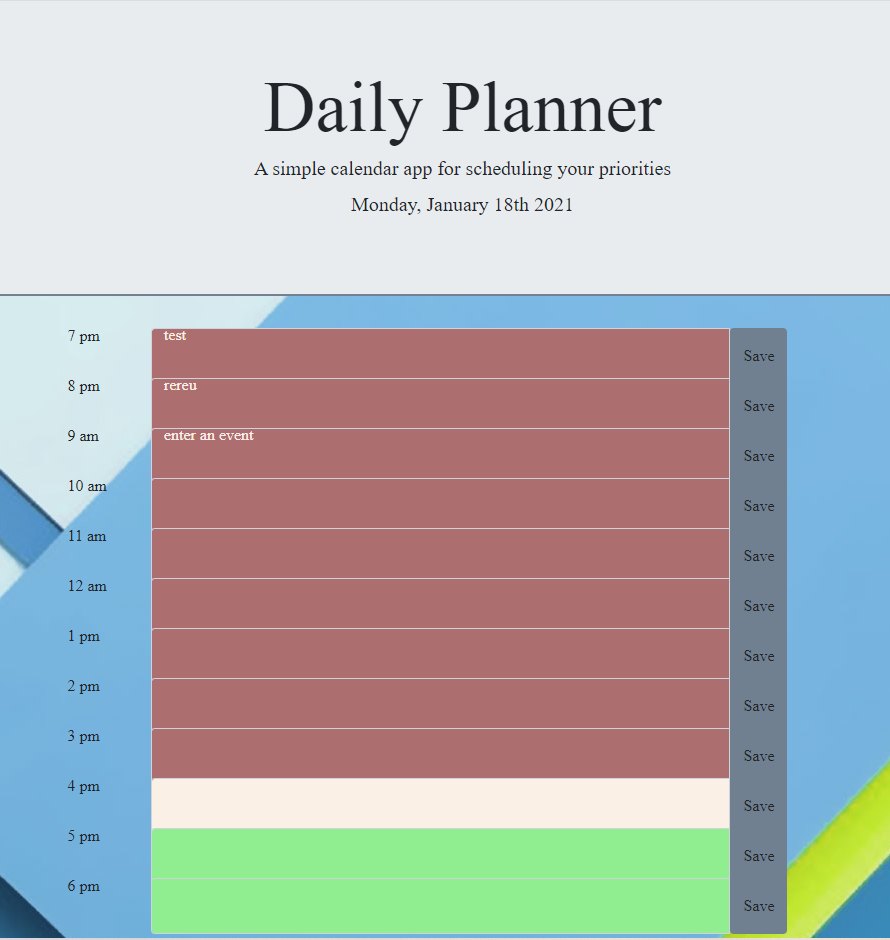
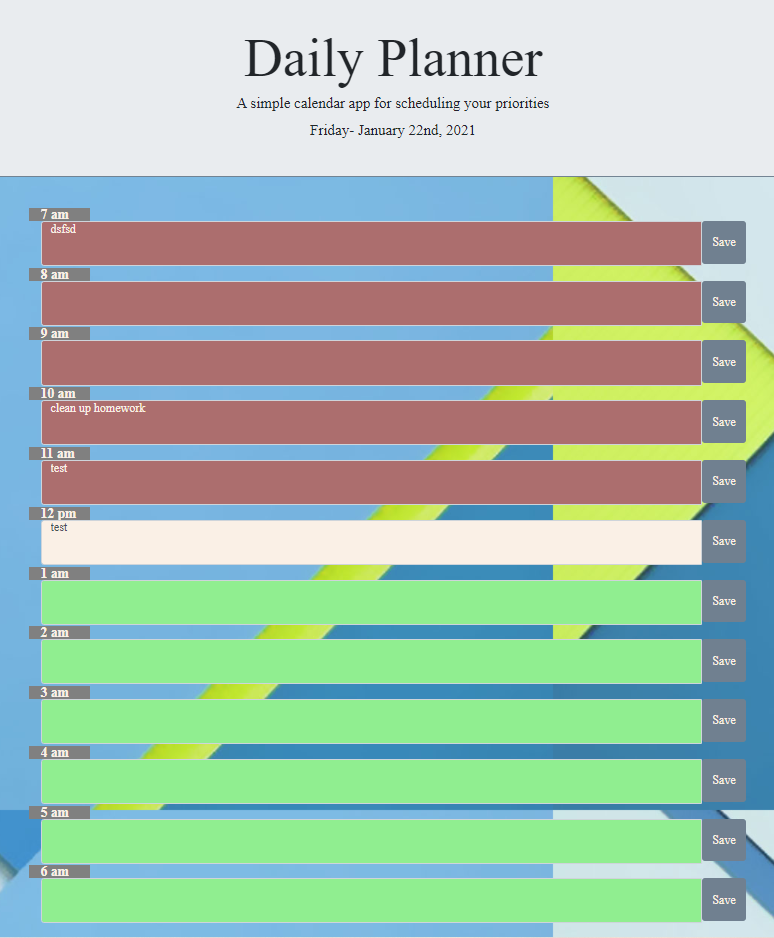
final commit, updated read me to correct screen shot

diff --git a/javaFiles/java.js b/javaFiles/java.js
@@ -28,7 +28,7 @@ for (var i = 0; i < hours.length; i++) {
     
     // the save button for the
     var btnDiv = $("<button class='saveBtn btn' type='button' id='button-addon1'>" + "Save" + "</button>");
-    
+
     //pull previous tasks from local storage on refresh
     var prevTask = localStorage.getItem(hours[i]);
 
@@ -81,158 +81,3 @@ $(".saveBtn").click(saveTasks);
 
 
 
-// IGNORE THIS BIT. This is the original where I had a button for each. Keeping to compare
-
-// $('#button7').click(function () {
-
-//     if ($('#sevenRes').val() === "") {
-//         console.log("Nothing", $('#sevenRes').val() + "at 7:00 a.m.");
-//     } else {
-//         console.log($('#sevenRes').val() + " at 7:00 a.m.");
-//     }
-
-//     localStorage.setItem(sevenAM, $('#sevenRes').val());
-
-// });
-
-
-// $('#button8').click(function () {
-
-//     if ($('#eightRes').val() === "") {
-//         console.log("Nothing", $('#eightRes').val() + "at 8:00 a.m.");
-//     } else {
-//         console.log($('#eightRes').val() + " at 8:00 a.m.");
-//     }
-
-//     localStorage.setItem(eightAM, $('#eightRes').val());
-
-// });
-
-
-// $('#button9').click(function () {
-
-//     if ($('#nineRes').val() === "") {
-//         console.log("Nothing", $('#nineRes').val() + "at 9:00 a.m.");
-//     } else {
-//         console.log($('#nineRes').val() + " at 9:00 a.m.");
-//     }
-
-//     localStorage.setItem(nineAM, $('#nineRes').val());
-
-// });
-
-
-// $('#button10').click(function () {
-
-//     if ($('#tenRes').val() === "") {
-//         console.log("Nothing", $('#tenRes').val() + "at 10:00 a.m.");
-//     } else {
-//         console.log($('#tenRes').val() + " at 10:00 a.m.");
-//     }
-
-//     localStorage.setItem(tenAM, $('#tenRes').val());
-
-// });
-
-
-// $('#button11').click(function () {
-
-//     if ($('#elevenRes').val() === "") {
-//         console.log("Nothing", $('#elevenRes').val() + "at 11:00 a.m.");
-//     } else {
-//         console.log($('#elevenRes').val() + " at 11:00 a.m.");
-//     }
-
-//     localStorage.setItem(elevenAM, $('#elevenRes').val());
-
-// });
-
-
-// $('#button12').click(function () {
-
-//     if ($('#twelveRes').val() === "") {
-//         console.log("Nothing", $('#twelveRes').val() + "at 12:00 p.m.");
-//     } else {
-//         console.log($('#twelveRes').val() + " at 12:00 p.m.");
-//     }
-
-//     localStorage.setItem(twelvePM, $('#twelveRes').val());
-
-// });
-
-
-// $('#button1').click(function () {
-
-//     if ($('#oneRes').val() === "") {
-//         console.log("Nothing", $('#oneRes').val() + "at 1:00 p.m.");
-//     } else {
-//         console.log($('#oneRes').val() + " at 1:00 p.m.");
-//     }
-
-//     localStorage.setItem(onePM, $('#oneRes').val());
-// });
-
-
-// $('#button2').click(function () {
-
-//     if ($('#twoRes').val() === "") {
-//         console.log("Nothing", $('#twoRes').val() + "at 2:00 p.m.");
-//     } else {
-//         console.log($('#twoRes').val() + " at 2:00 p.m.");
-//     }
-
-//     localStorage.setItem(twoPM, $('#twoRes').val());
-
-// });
-
-
-// $('#button3').click(function () {
-
-//     if ($('#threeRes').val() === "") {
-//         console.log("Nothing", $('#threeRes').val() + "at 3:00 p.m.");
-//     } else {
-//         console.log($('#threeRes').val() + " at 3:00 p.m.");
-//     }
-
-//     localStorage.setItem(threePM, $('#threeRes').val());
-
-// });
-
-
-// $('#button4').click(function () {
-
-//     if ($('#fourRes').val() === "") {
-//         console.log("Nothing", $('#fourRes').val() + "at 4:00 p.m.");
-//     } else {
-//         console.log($('#fourRes').val() + " at 4:00 p.m.");
-//     }
-
-//     localStorage.setItem(fourPM, $('#fourRes').val());
-
-// });
-
-
-// $('#button5').click(function () {
-
-//     if ($('#fiveRes').val() === "") {
-//         console.log("Nothing", $('#fiveRes').val() + "at 5:00 p.m.");
-//     } else {
-//         console.log($('#fiveRes').val() + " at 5:00 p.m.");
-//     }
-
-//     localStorage.setItem(fivePM, $('#fiveRes').val());
-
-// });
-
-
-// $('#button6').click(function () {
-
-//     if ($('#sixRes').val() === "") {
-//         console.log("Nothing", $('#sixRes').val() + "at 6:00 p.m.");
-//     } else {
-//         console.log($('#sixRes').val() + " at 6:00 p.m.");
-//     }
-
-//     localStorage.setItem(sixPM, $('#sixRes').val());
-
-// });
